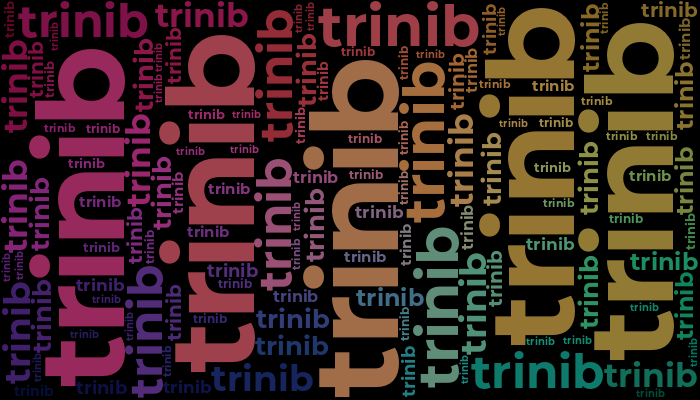
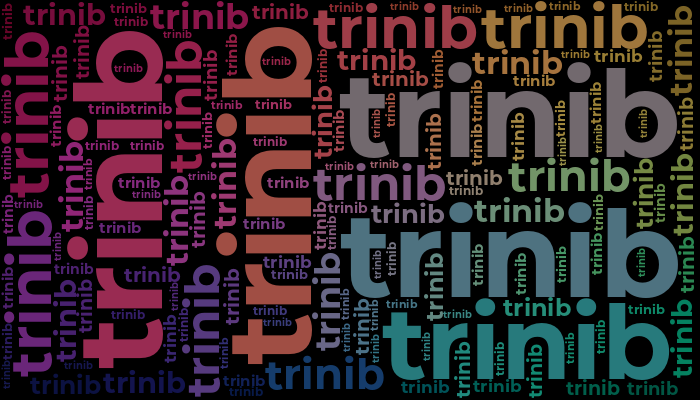
@trinib added 'trinib' to the Word Cloud

diff --git a/README.md b/README.md
@@ -290,7 +290,7 @@ Join the Word Cloud Board :cloud: :pencil2:
 
 ## 📛Github Usernames📛
 
-![Word Cloud Words Badge](https://img.shields.io/badge/Words%20in%20this%20Cloud-3-informational?labelColor=003995)
+![Word Cloud Words Badge](https://img.shields.io/badge/Words%20in%20this%20Cloud-1-informational?labelColor=003995)
 ![Word Cloud Contributors Badge](https://img.shields.io/badge/Cloud%20Contributors-1-blueviolet?labelColor=25004e)
 
 <img src="https://raw.githubusercontent.com/trinib/trinib/main/wordcloud/wordcloud.png" alt="WordCloud" width="100%">
@@ -371,7 +371,7 @@ Join the Word Cloud Board :cloud: :pencil2:
 <!--RECENT_ACTIVITY:end-->
 <p align="right">
 <!--RECENT_ACTIVITY:last_update-->
-<i>Last refresh</i>: <b>Tuesday, March 29th, 2022, 3:42:04 PM</b>
+<i>Last refresh</i>: <b>Sunday, March 27th, 2022, 5:54:05 PM</b>
 <!--RECENT_ACTIVITY:last_update_end-->
  
 <!--
